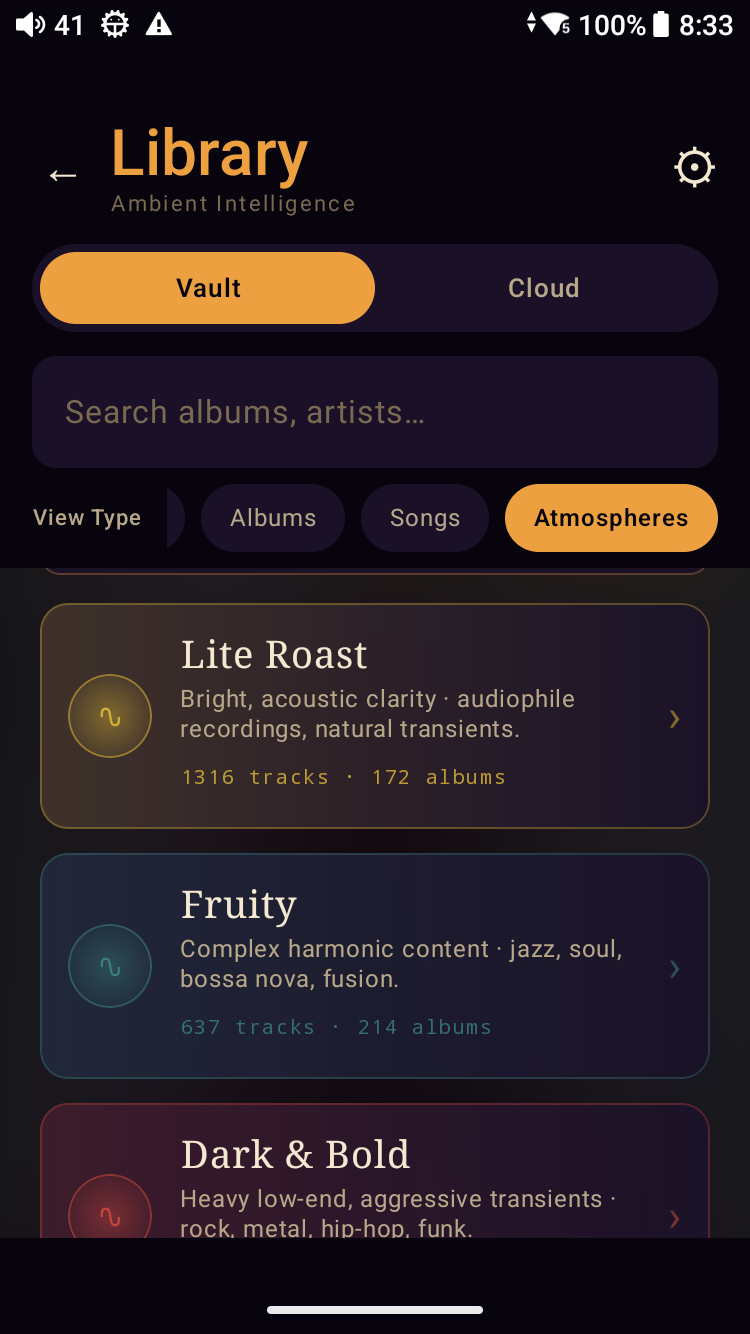
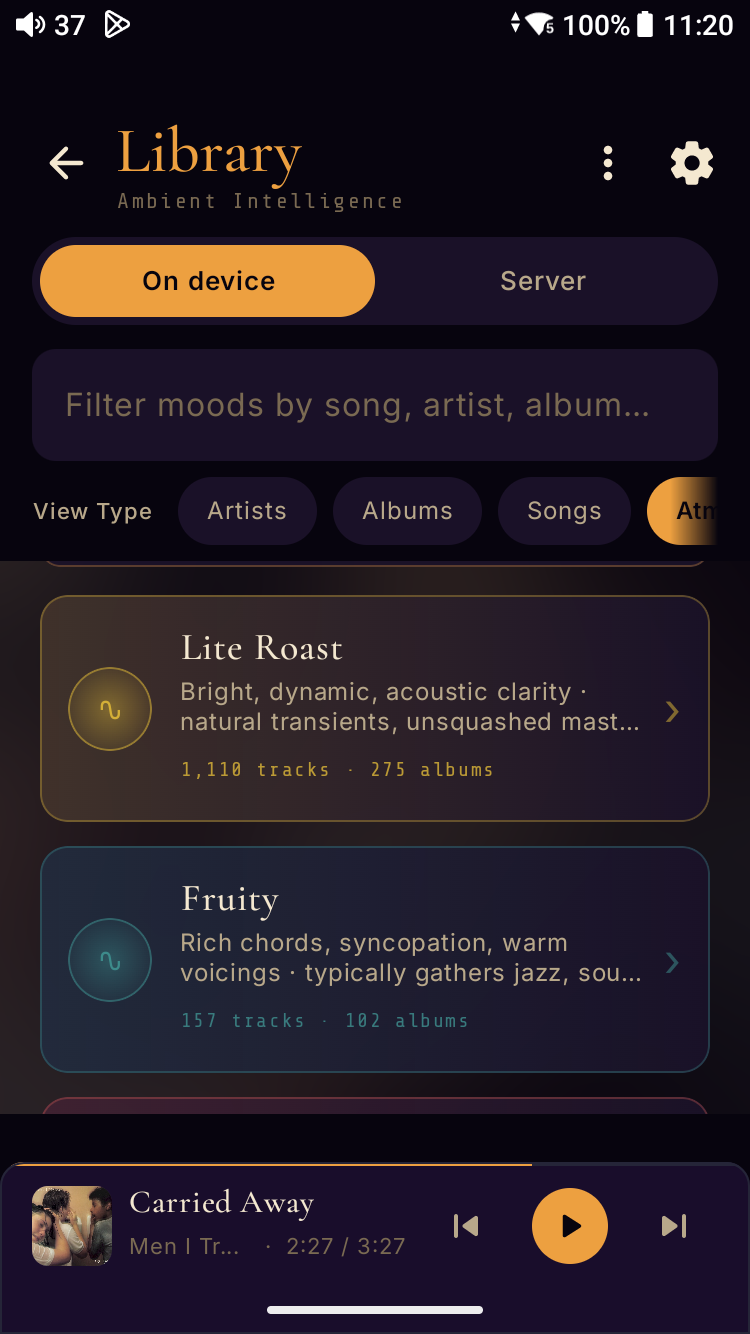
shots: recapture the last nine screens, and correct what they aged out of
Closes the May-dated screenshot debt. Every remaining page screenshot was two
months behind design tier-1, the Audio Path faceplate, and the HD-badge fix.
Captured on the M21 against 1.30.1 (vc129).

What the new frames changed in the copy:

- workbench: the old shot was a flat line under a chapter arguing for a
  10-band parametric EQ. Applied the V-Shape Boost factory profile so the
  graph demonstrates the chapter instead of asserting it, then restored the
  Pure Meringo baseline on the device.
- workbench copy said "Adjust a slider". Band gain has no slider — the app's
  own help says drag the dot, step it, or type an exact value. Sliders exist
  only for Tilt and Preamp in the correction panel.
- atmospheres: the Library mood view is now colour-coded cards with
  plain-language definitions, not count tiles. The alt's counts (1316/172,
  637/214) were from a different library state; the frame reads 1,110/275 and
  157/102.
- tuning_vault_factory: "Warm Analog" is no longer the third factory profile
  in frame, and a Your Rack card now leads the screen.
- onboarding: only sections 1-3 of Our Commitment fit a single frame. The alt
  listed all five as if visible, and described section 3 as "MusicBrainz +
  Cover Art Archive" when the real list names eight hosts and their
  preconditions. The privacy hero copy now says which three are in frame.
- diagnostics: two capability rows were added since the old shot (AGSL
  shaders, Live blur).
[…]

diff --git a/index.html b/index.html
@@ -2100,7 +2100,7 @@ footer {
       <div class="receipt-device">
         <picture><source srcset="assets/screens/diagnostics.webp" type="image/webp"><img src="assets/screens/diagnostics.png"
              loading="lazy" decoding="async" width="750" height="1334"
-             alt="Meringo Audio Diagnostics — Device Capabilities: Tier LEAN, RAM 3646 MB, 8 CPU cores, Is DAP Yes, Is FiiO Yes, USB DAC No. Build: Manufacturer Qualcomm, Brand qti, Model FiiO M21, Product / Device bengal_515, Hardware qcom, Android 13 (API 33), ABI arm64-v8a"></picture>
+             alt="Meringo Audio Diagnostics — Device Capabilities: Tier LEAN, RAM 3646 MB, 8 CPU cores, Is DAP Yes, Is FiiO Yes, USB DAC No, AGSL shaders No, Live blur No. Build: Manufacturer QUALCOMM, Brand qti, Model FiiO M21, Product / Device bengal_515, Hardware qcom, Android 13 (API 33), ABI arm64-v8a"></picture>
       </div>
     </div>
   </div>
@@ -2389,7 +2389,7 @@ footer {
         Undo, redo, reset, gain trim, file load, library browse. Nothing buried in a menu. Nothing assumed about what your ears want. Every adjustment runs through the same 64-bit double-precision DSP path as the rest of the engine.
       </p>
       <p class="chapter-body">
-        Below the graph: <strong>Pink Noise</strong> and <strong>Sine Sweep</strong> test signals routed through the active EQ bands. Adjust a slider, hear the test tone reshape in real time — the same headphone-calibration workflow Pro Tools and iZotope expose in studio plugins, one tap deep. <strong>Phase Mode</strong> toggles between minimum-phase (zero latency) and 1025-tap linear-phase FIR (constant group delay across frequency) without rebuilding your tuning.
+        Below the graph: <strong>Pink Noise</strong> and <strong>Sine Sweep</strong> test signals routed through the active EQ bands. Drag a band&rsquo;s dot on the graph, step it one increment at a time, or type an exact value &mdash; and hear the test tone reshape in real time — the same headphone-calibration workflow Pro Tools and iZotope expose in studio plugins, one tap deep. <strong>Phase Mode</strong> toggles between minimum-phase (zero latency) and 1025-tap linear-phase FIR (constant group delay across frequency) without rebuilding your tuning.
       </p>
       <div class="chapter-specs">
         <span class="chapter-spec-tag gold">10 bands</span>
@@ -2408,12 +2408,12 @@ footer {
         <div class="chapter-device">
           <picture><source srcset="assets/screens/workbench.webp" type="image/webp"><img src="assets/screens/workbench.png"
                loading="lazy" decoding="async" width="750" height="1334"
-               alt="Meringo Workbench — 10-band parametric EQ with an active curve (gentle bass shape, 4 kHz cut, gentle top-end roll-off), Slot A engaged, engine on"></picture>
+               alt="Meringo Workbench — 10-band parametric EQ showing an active V-shaped curve (bass lift, midrange scoop, treble lift) drawn across a &plusmn;24 dB graph from 20 Hz to 20 kHz, with the ten band handles on the curve and the band buttons below. Slot A engaged, engine toggle on"></picture>
         </div>
         <div class="chapter-device" style="width:240px;">
           <picture><source srcset="assets/screens/workbench_soundtools.webp" type="image/webp"><img src="assets/screens/workbench_soundtools.png"
                loading="lazy" decoding="async" width="750" height="1334"
-               alt="Meringo Workbench scrolled to the Sound Tool selector — Pink Noise is the active tool, routed through the EQ bands. Helper line reads &lsquo;Pink noise through active EQ bands. Tune until perceived response is flat.&rsquo; Phase Mode toggle below shows Min Phase selected"></picture>
+               alt="Meringo Workbench scrolled to the Sound Tool selector — Off / Pink Noise / Sine Sweep / Group Delay, with Pink Noise active and routed through the EQ bands. Helper line reads &lsquo;Pink noise through active EQ bands. Tune until perceived response is flat.&rsquo; A Meter section below carries an RMS / Peak digital-domain post-EQ readout, and the Phase Mode toggle shows Min Phase selected"></picture>
         </div>
       </div>
     </div>
@@ -2457,7 +2457,7 @@ footer {
       <div class="chapter-device">
         <picture><source srcset="assets/screens/tuning_vault_factory.webp" type="image/webp"><img src="assets/screens/tuning_vault_factory.png"
              loading="lazy" decoding="async" width="750" height="1334"
-             alt="Meringo Tuning Vault — Baseline section at top showing None (Pure Meringo): &lsquo;Flat response · All bands zeroed · No signature applied.&rsquo; Factory Profiles section below: V-Shape Boost, Mid-Forward Vocal, Warm Analog (partial), each with its own Apply CTA"></picture>
+             alt="Meringo Tuning Vault — a Your Rack card at the top (&lsquo;Group signatures by the headphone you tuned them for. One-tap A/B between two tunings of the same gear.&rsquo;), then the Baseline section showing None (Pure Meringo): &lsquo;Flat response · All bands zeroed · No signature applied.&rsquo; Factory Profiles below: V-Shape Boost with its Apply CTA, Mid-Forward Vocal partially visible"></picture>
       </div>
     </div>
 
@@ -2492,7 +2492,7 @@ footer {
       <div class="chapter-device">
         <picture><source srcset="assets/screens/mood_smart.webp" type="image/webp"><img src="assets/screens/mood_smart.png"
              loading="lazy" decoding="async" width="750" height="1334"
-             alt="Meringo home — Mood and Smart Playlists generated on-device from each track's chromagram and measured audio features"></picture>
+             alt="Meringo home — an Atmospheres row of daily-brewed mood playlists (Lite Roast &lsquo;bright · crisp&rsquo;, Fruity &lsquo;warm · harmonic&rsquo;, Dark &amp; Bold &lsquo;bass-heavy · punchy&rsquo;, 30 tracks each) above a Smart Playlists row (Studio Vault 1,716 tracks, Deep Cuts 75, Long Players 145). Both are generated on-device from each track's chromagram and measured audio features"></picture>
       </div>
     </div>
 
@@ -2584,7 +2584,7 @@ footer {
       <div class="chapter-device">
         <picture><source srcset="assets/screens/atmospheres.webp" type="image/webp"><img src="assets/screens/atmospheres.png"
              loading="lazy" decoding="async" width="750" height="1334"
-             alt="Meringo Library — Vault lens, Atmospheres view-type selected. The mood tiles show counts derived locally from each track&rsquo;s chromagram and measured audio features, shown here for a sample library: Lite Roast (1316 tracks, 172 albums), Fruity (637 tracks, 214 albums), Dark &amp; Bold (rock / metal / hip-hop / funk) partially visible below"></picture>
+             alt="Meringo Library subtitled &lsquo;Ambient Intelligence&rsquo; — On device lens selected against Server, Atmospheres view-type active. Each mood is a card with its own colour and waveform glyph, a plain-language definition, and counts derived locally from each track&rsquo;s chromagram and measured audio features: Lite Roast &lsquo;Bright, dynamic, acoustic clarity · natural transients, unsquashed masters&rsquo; (1,110 tracks · 275 albums), Fruity &lsquo;Rich chords, syncopation, warm voicings&rsquo; (157 tracks · 102 albums), Dark &amp; Bold partially visible below"></picture>
       </div>
     </div>
 
@@ -3050,13 +3050,13 @@ footer {
         <p class="privacy-hero-eyebrow">First run · disclosed before you tap</p>
         <h3 class="privacy-hero-title">Our Commitment, on screen <em>one.</em></h3>
         <p class="privacy-hero-body">
-          Before any CTA loads — before you connect to Jellyfin, Subsonic, or pick a local folder — Meringo lays out exactly what it does with your data. <em>Your Data Stays Yours</em> (local-first storage). <em>The Acoustic DNA Scan</em> (AcoustID fingerprinting, off by default). <em>External Services</em> (every server the app can reach, named, with what has to be true before it does). <em>Crash Reporting</em> (Sentry, opt-in with an explicit toggle, off by default). <em>Software As-Is</em> (a solo developer's honest disclaimer). The five headings on the screen to the right correspond one-to-one with the sections of the policy below. Same content, same wording, same posture.
+          Before any CTA loads — before you connect to Jellyfin, Subsonic, or pick a local folder — Meringo lays out exactly what it does with your data. <em>Your Data Stays Yours</em> (local-first storage). <em>The Acoustic DNA Scan</em> (AcoustID fingerprinting, off by default). <em>External Services</em> (every server the app can reach, named, with what has to be true before it does). <em>Crash Reporting</em> (Sentry, opt-in with an explicit toggle, off by default). <em>Software As-Is</em> (a solo developer's honest disclaimer). The five headings of that screen &mdash; the first three are in frame to the right &mdash; correspond one-to-one with the sections of the policy below. Same content, same wording, same posture.
         </p>
       </div>
       <div class="privacy-hero-device">
         <picture><source srcset="assets/screens/onboarding.webp" type="image/webp"><img src="assets/screens/onboarding.png"
              loading="lazy" decoding="async" width="750" height="1334"
-             alt="Meringo first-run terms screen — &lsquo;Our Commitment&rsquo; with five numbered sections: 1. Your Data Stays Yours, 2. The Acoustic DNA Scan, 3. External Services (MusicBrainz + Cover Art Archive), 4. Crash Reporting (Sentry, opt-in toggle, off by default), 5. Software As-Is. Shown to every user before any Connect or Play CTA loads"></picture>
+             alt="Meringo first-run terms screen — the &lsquo;Our Commitment&rsquo; heading above five numbered sections, of which the first three are in frame: 1. Your Data Stays Yours (local-first; no collection of library, credentials, or listening habits), 2. The &lsquo;Acoustic DNA&rsquo; Scan (Optional, Off by Default) (AcoustID fingerprinting, explained and opt-in), 3. External Services, which opens the itemised list of every host the app can reach. Sections 4. Crash Reporting and 5. Software As-Is follow below. Shown to every user before any Connect or Play CTA loads"></picture>
       </div>
     </div>
 
